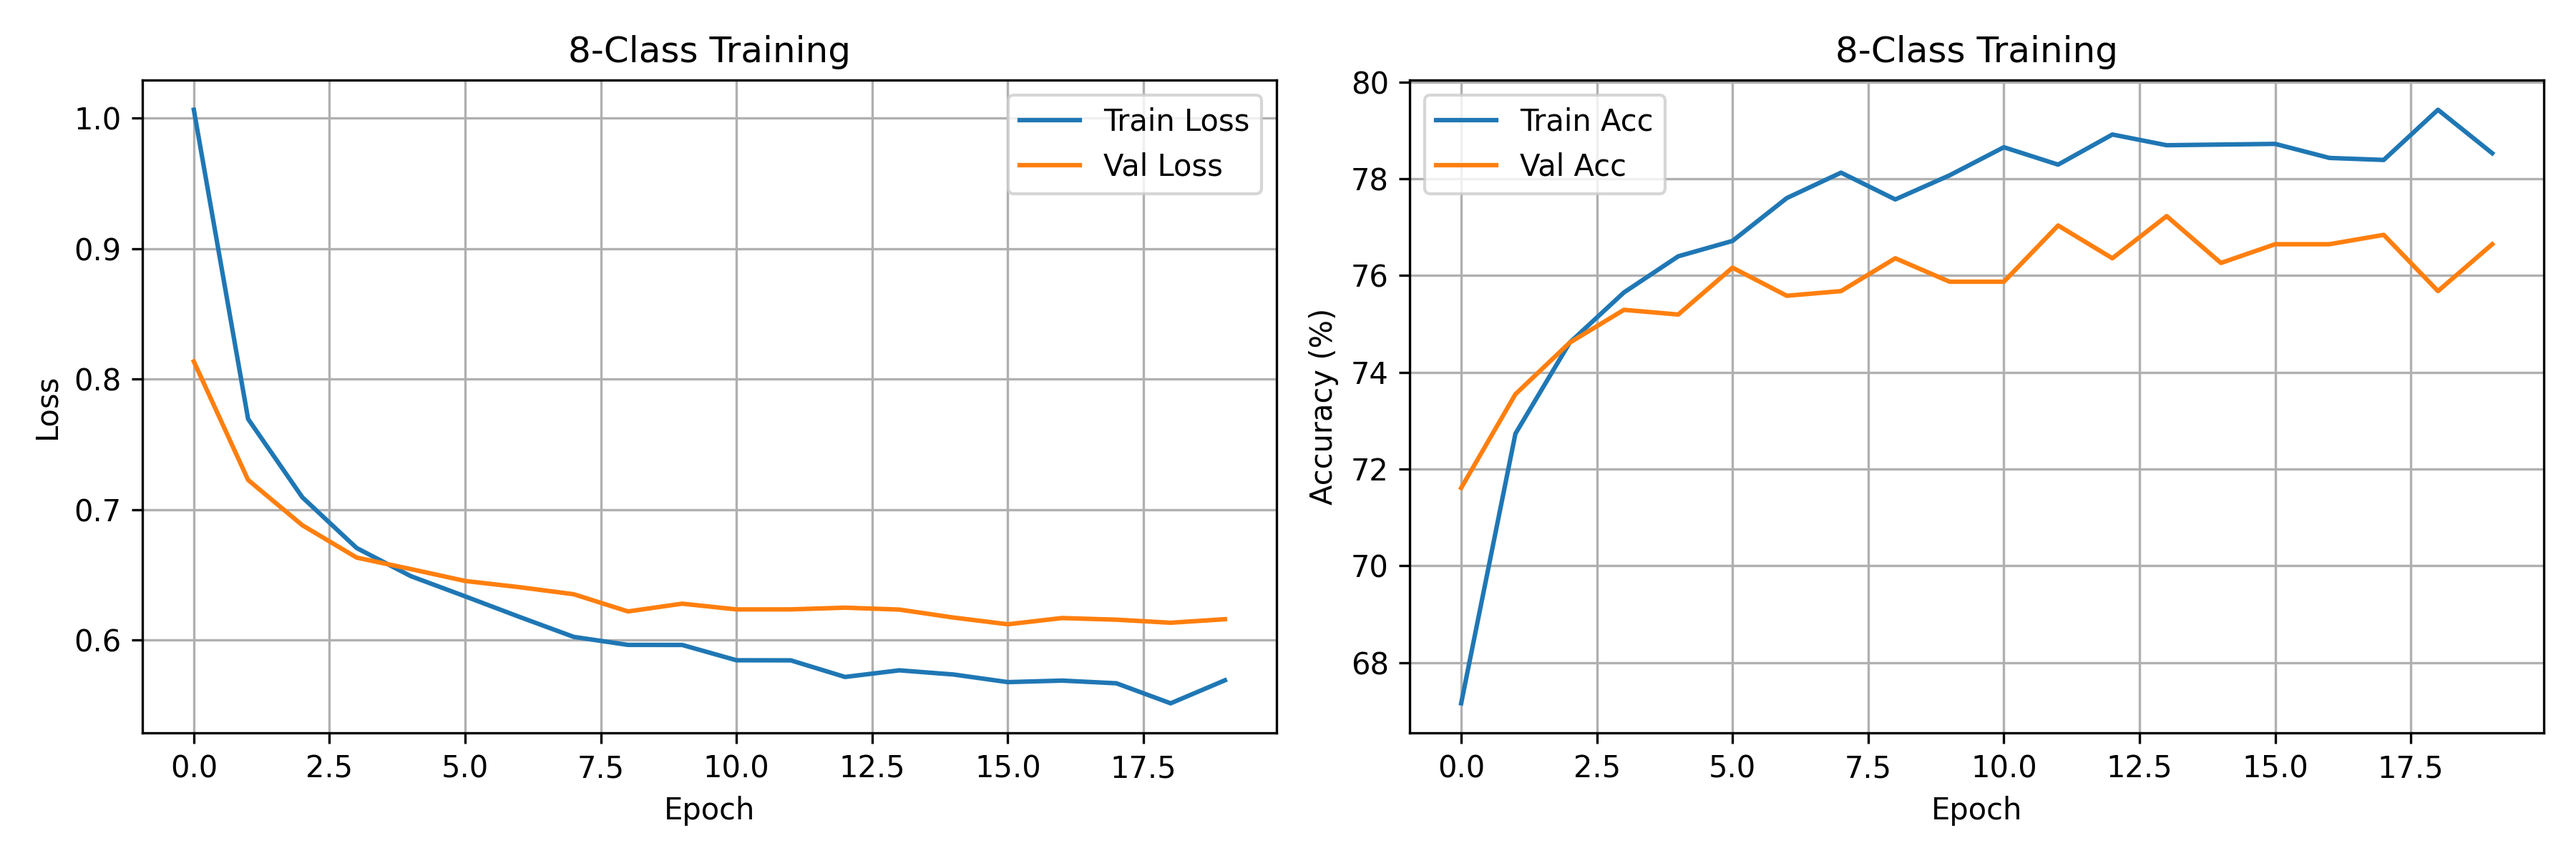
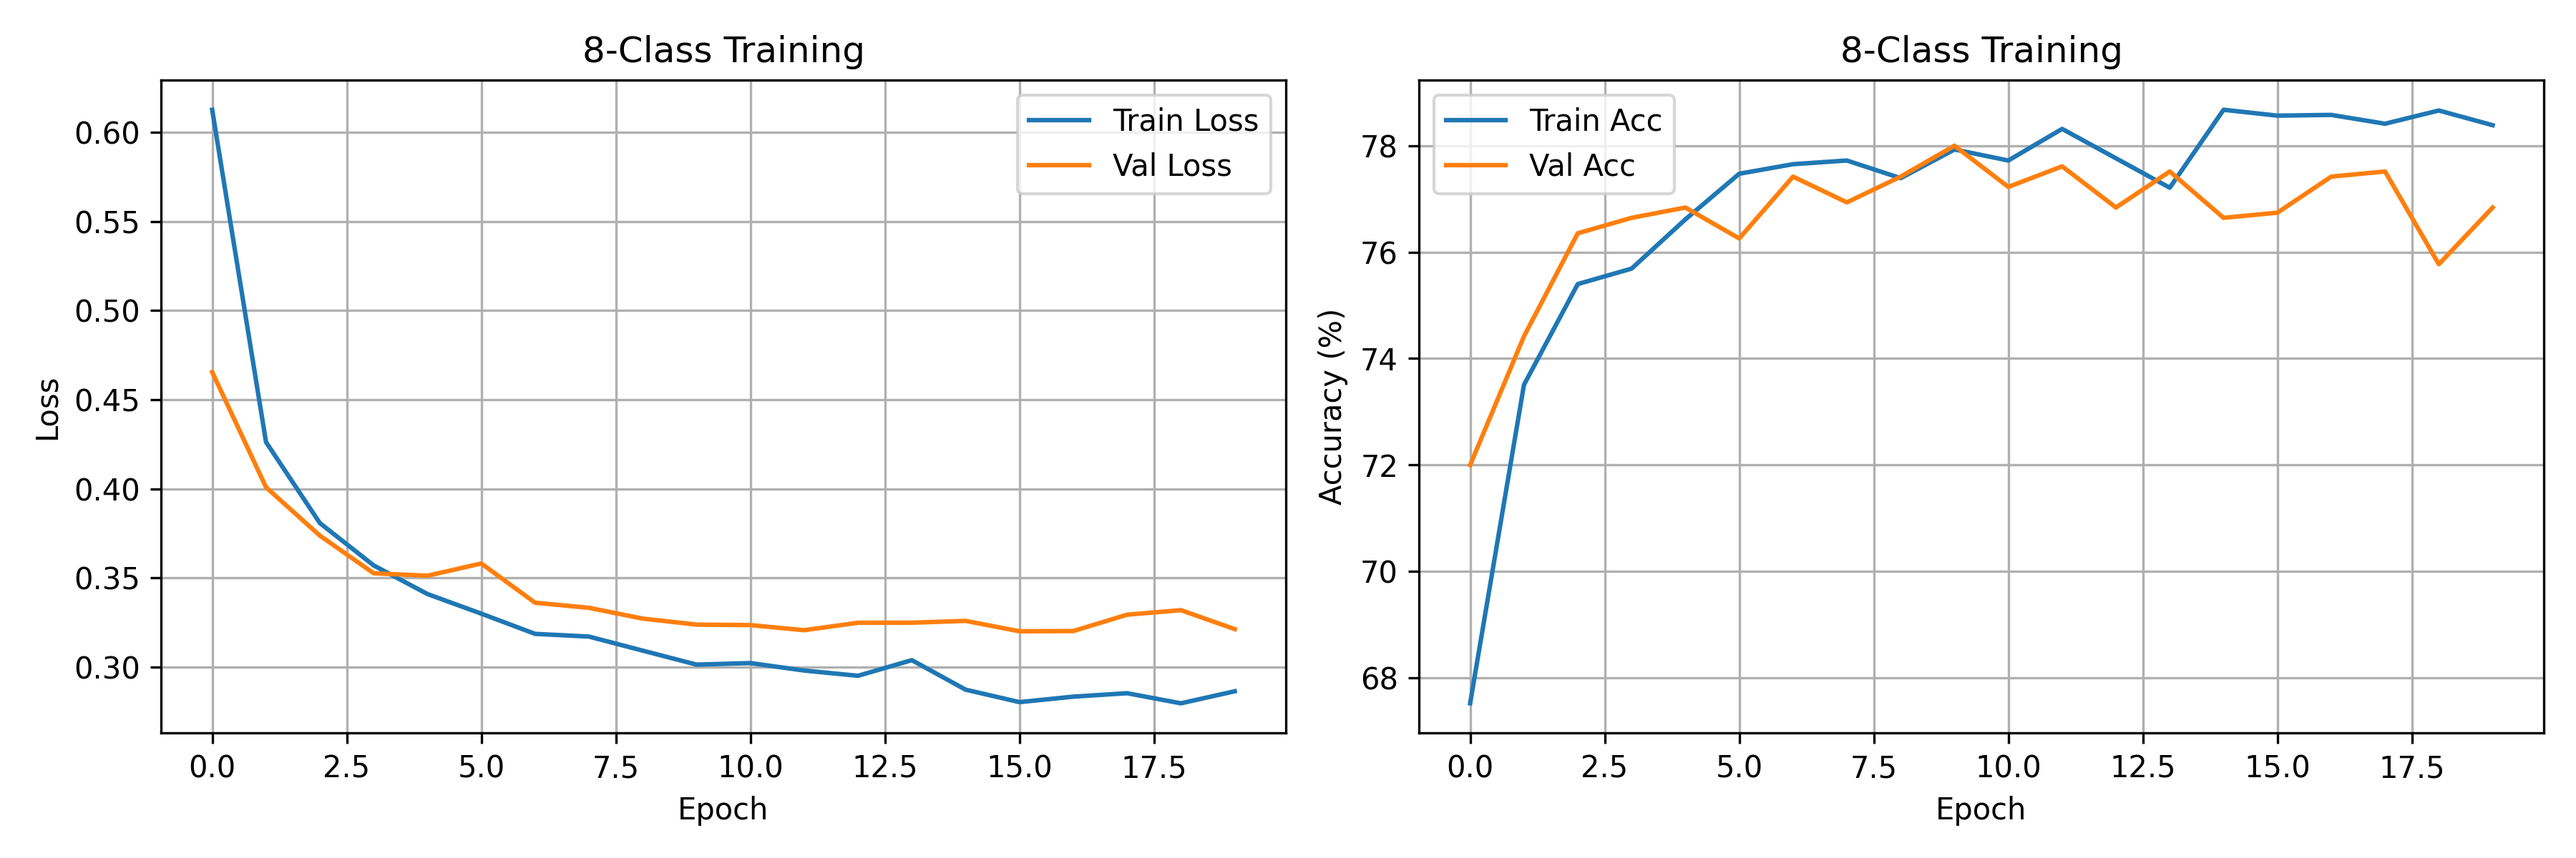
feat: add Focal Loss, ColorJitter saturation, and Grad-CAM visualizations
- train_pytorch_8class.py: FocalLoss class (gamma=2.0) replaces CrossEntropyLoss
- train_pytorch_8class.py: added saturation=0.2 to ColorJitter augmentation
- Added 16 Grad-CAM sample visualizations in gradcam_8class/
- Updated training history plot

diff --git a/train_pytorch_8class.py b/train_pytorch_8class.py
@@ -4,6 +4,7 @@ Combines 7 classes from HAM10000 with Acne from DermNet for complete 8-class tra
 """
 import torch
 import torch.nn as nn
+import torch.nn.functional as F
 import torch.optim as optim
 from torch.utils.data import DataLoader, Dataset
 from torch.amp import autocast, GradScaler
@@ -18,6 +19,34 @@ from tqdm import tqdm
 import matplotlib.pyplot as plt
 
 import config
+
+
+# ============================================================
+# FOCAL LOSS — focuses training on hard-to-classify examples
+# ============================================================
+class FocalLoss(nn.Module):
+    """
+    Focal Loss forces the model to focus on hard-to-classify examples
+    (e.g. Melanoma, Dermatofibroma) and down-weights easy examples
+    (e.g. Melanocytic nevi).  gamma=2 is the standard sweet spot.
+    """
+
+    def __init__(self, alpha=1, gamma=2, reduction='mean'):
+        super(FocalLoss, self).__init__()
+        self.alpha = alpha
+        self.gamma = gamma
+        self.reduction = reduction
+
+    def forward(self, inputs, targets):
+        ce_loss = F.cross_entropy(inputs, targets, reduction='none')
+        pt = torch.exp(-ce_loss)
+        focal_loss = self.alpha * (1 - pt) ** self.gamma * ce_loss
+
+        if self.reduction == 'mean':
+            return focal_loss.mean()
+        elif self.reduction == 'sum':
+            return focal_loss.sum()
+        return focal_loss
 
 # ============================================================
 # STEP 1: GPU SETUP
@@ -164,7 +193,7 @@ def get_dataloaders(batch_size=64, num_workers=0):
         transforms.RandomHorizontalFlip(),
         transforms.RandomVerticalFlip(),
         transforms.RandomRotation(20),
-        transforms.ColorJitter(brightness=0.2, contrast=0.2),
+        transforms.ColorJitter(brightness=0.2, contrast=0.2, saturation=0.2),
         transforms.ToTensor(),
         transforms.Normalize([0.485, 0.456, 0.406], [0.229, 0.224, 0.225])
     ])
@@ -332,7 +361,7 @@ def main(args):
     
     model = build_model(num_classes=8, device=device)
     
-    criterion = nn.CrossEntropyLoss()
+    criterion = FocalLoss(gamma=2.0)  # Replaces CrossEntropyLoss for better minority-class recall
     optimizer = optim.Adam(model.classifier.parameters(), lr=args.lr)
     scaler = GradScaler() if args.use_amp else None
     
